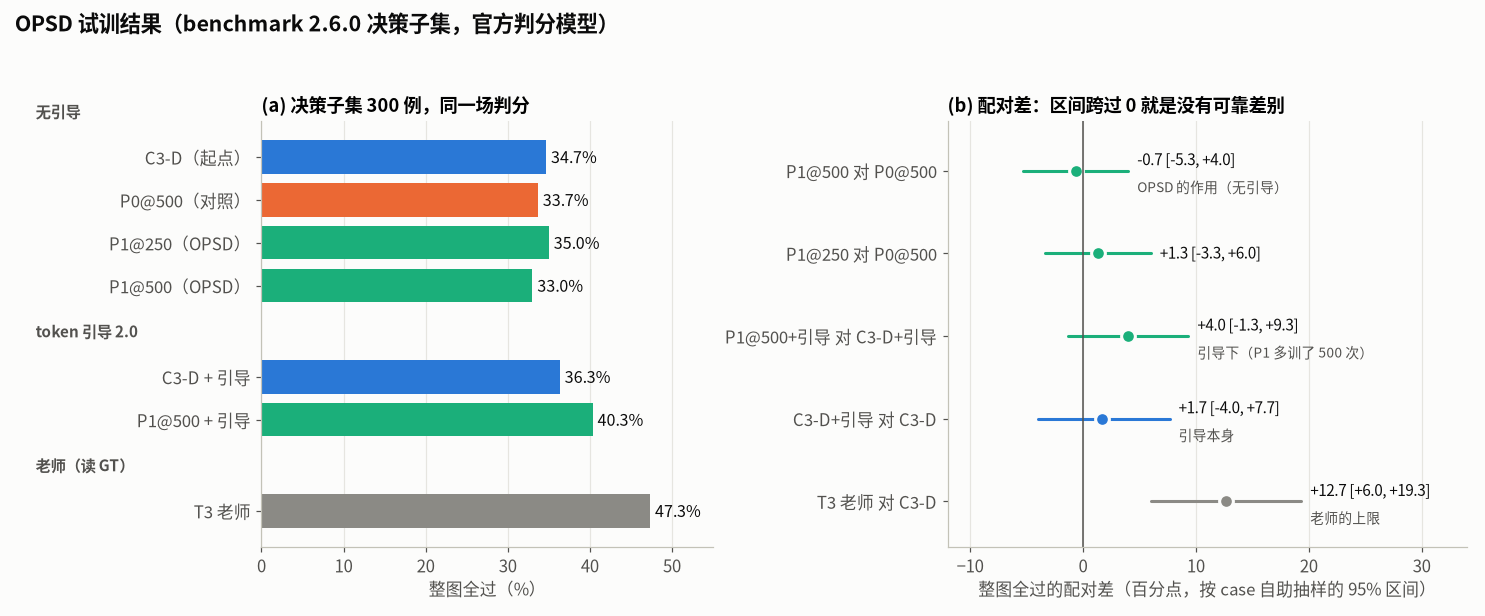
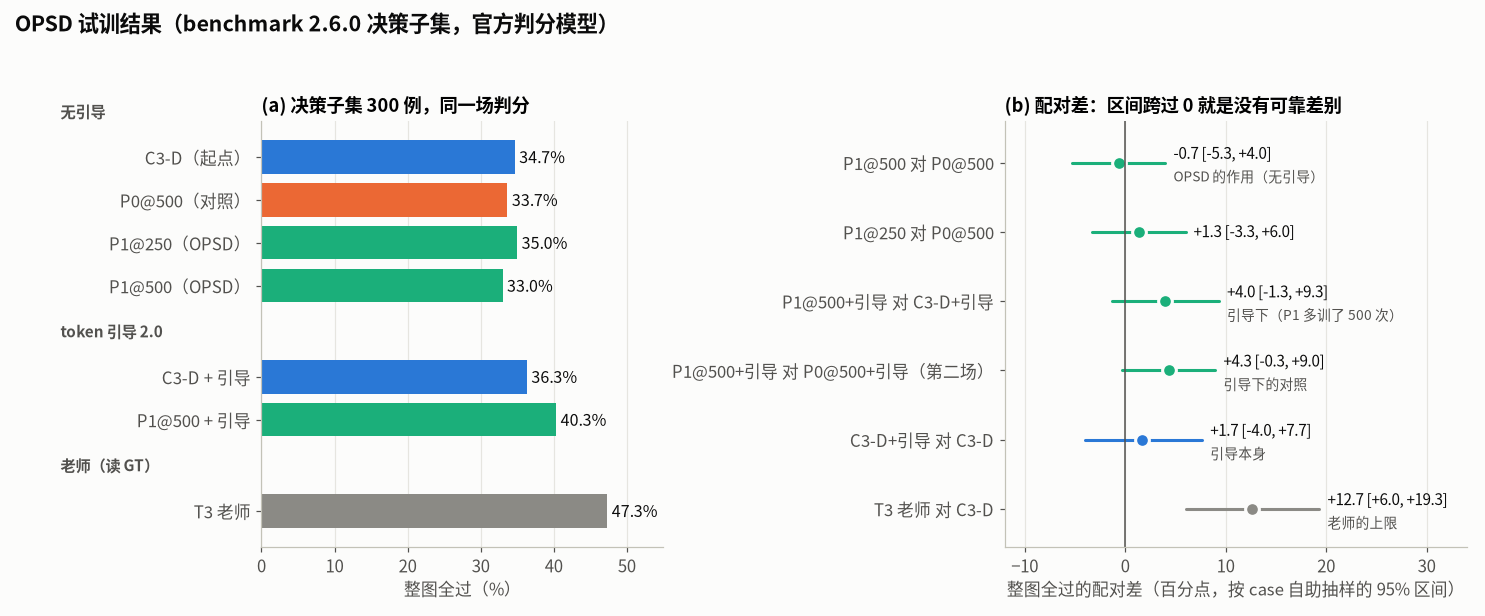
docs: record the P0 plus guidance control of the OPSD pilot

diff --git a/docs/02_SAMTokEdit_Qwen21_v4方法.md b/docs/02_SAMTokEdit_Qwen21_v4方法.md
@@ -38,7 +38,7 @@ Replace the selected region <|mt_start|><|mt_0097|><|mt_0411|><|mt_end|> with a 
   - 同一子集在 C3 那次判分里：原版 11.7%，FLUX.3 27.7%，C3-D 35.0%；
   - 老师上限测试那次判分里重判：C3-D 34.2%，C3-D + 引导 37.9%。
 - **OPSD 老师（T3）：**同一子集、老师测试那次判分里为 45.8%。老师读 GT mask，这只是上限。
-- **OPSD 训练：**代码已实现并验证（§5、§6.7）。试训（10-26 至 10-27）按现在的配方没有带来提升：P1 对 P0 整图全过 −0.7 个点 [−5.3, +4.0]；加引导后 P1@500 为 40.3%，对 C3-D + 引导 +4.0，不显著。诊断与修订方向见 §5.11，结果见文档 03 §7 和 `V3/analysis/opsd_pilot_20261026/README.md`。
+- **OPSD 训练：**代码已实现并验证（§5、§6.7）。试训（10-26 至 10-27）按现在的配方没有带来提升：P1 对 P0 整图全过 −0.7 个点 [−5.3, +4.0]；加引导后 P1@500 为 40.3%，对 C3-D + 引导 +4.0、对 P0 + 引导 +4.3，都不显著，高出的部分来自保持。诊断与修订方向见 §5.11，结果见文档 03 §7 和 `V3/analysis/opsd_pilot_20261026/README.md`。
 
 ## 1. 出发点与设计原则
 
@@ -549,6 +549,7 @@ opsd_backward(pipe, ctx, row, teacher, config, scale):
 **结果**（文档 03 §7）：
 - P1（一半行做 OPSD）对 P0（同一批行全做普通训练），各 500 次更新：决策子集整图全过 −0.7 个点 [−5.3, +4.0]，单元 E、P 都不显著；开发集盲指代 IoU +0.016（显著），不执行率不变。
 - 加引导 2.0 后，P1@500 为 40.3%，对 C3-D + 引导 +4.0 [−1.3, +9.3]，不显著；单元 P +0.017 [+0.000, +0.035]，边缘。
+- 第二场对 P0 + 引导：+4.3 [−0.3, +9.0]，不显著；单元 E +0.006，单元 P +0.015。引导下多出的部分来自保持，不是执行。
 
 **诊断**（`V3/analysis/opsd_pilot_20261026/diagnosis/`，76 条试训没用过的合板记录）：
 1. **§5.4 的损失被 A 外主导。**
